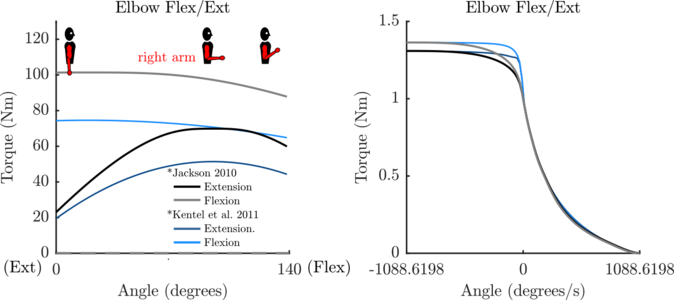
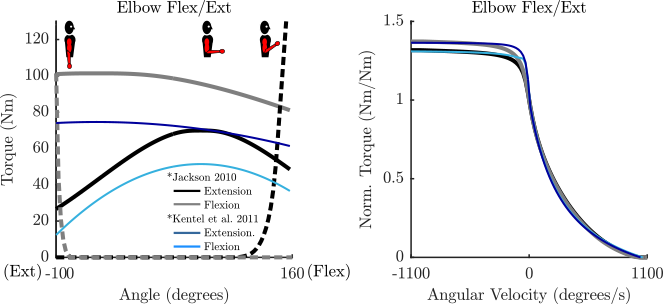
Millard2016TorqueMuscle upgrades complete. All tests pass, and the plots of the curves from the muscle match the prototype curves from Matlab

Changed region(s): [[0.0, 0.0, 1.0, 1.0], [0.181, 0.93, 0.362, 1.0], [0.6938, 0.0, 0.905, 0.06]]

diff --git a/addons/muscle/Millard2016TorqueMuscle.cc b/addons/muscle/Millard2016TorqueMuscle.cc
@@ -34,7 +34,7 @@ using namespace std;
  Table Access Structure Names
 *************************************************************/
 const double gravity = 9.81; //Needed for the strength scaling used
-                      //by Anderson et al.
+                             //by Anderson et al.
 
 const char* DataSet::names[] = {  "Anderson2007",
                                   "Gymnast"};
@@ -1019,8 +1019,8 @@ void Millard2016TorqueMuscle::printJointTorqueProfileToFile(
     double jointDelta = (jointMax-jointMin)
                         /((double)numberOfSamplePoints-1.);
 
-    double velMin = signOfConcentricAnglularVelocity*velocityDomain[0];
-    double velMax = signOfConcentricAnglularVelocity*velocityDomain[1];
+    double velMin = omegaMax*signOfConcentricAnglularVelocity*velocityDomain[0];
+    double velMax = omegaMax*signOfConcentricAnglularVelocity*velocityDomain[1];
 
     if(velMin > velMax){
         double tmp = velMin;
@@ -1032,7 +1032,7 @@ void Millard2016TorqueMuscle::printJointTorqueProfileToFile(
     velMax = velMax+0.1*velRange;
     double velDelta = (velMax-velMin)/((double)numberOfSamplePoints-1.0);
 
-    double angleAtMaxIsoTorque = c1c2c3c4c5c6Anderson2007[2];
+    double angleAtMaxIsoTorque = angleAtOneNormActiveTorque;
 
     std::vector< std::vector < double > > matrix;
     std::vector < double > row(21);

diff --git a/addons/muscle/Millard2016TorqueMuscle.h b/addons/muscle/Millard2016TorqueMuscle.h
@@ -842,7 +842,13 @@ namespace RigidBodyDynamics {
                 /**
                     @return the joint angle at which the normalized
                             passive-torque-angle curve reaches a value
-                            of 1.0. Angle is in radians
+                            of 1.0. If this curve never reaches a value
+                            of 1.0 (because it is flat, or the
+                            passiveTorqueScale has been set to 0) a value
+                            of std::numeric_limits<double>::signaling_NaN()
+                            is returned. Use the std function isfinite to
+                            test if a signaling_NaN has been returned.
+                            Angle is in radians
                  */
                 double getJointAngleAtOneNormalizedPassiveIsometricTorque() const;
 

diff --git a/addons/muscle/tests/testMillard2016TorqueMuscle.cc b/addons/muscle/tests/testMillard2016TorqueMuscle.cc
@@ -404,7 +404,7 @@ TEST(calcTorqueMuscleInfoCorrectnessTests){
 TEST(exampleUsage){
 
 
-  bool printCurves = false;
+  bool printCurves = true;
   bool printAllCurves = false;
 
   //int dataSet = DataSetAnderson2007;
